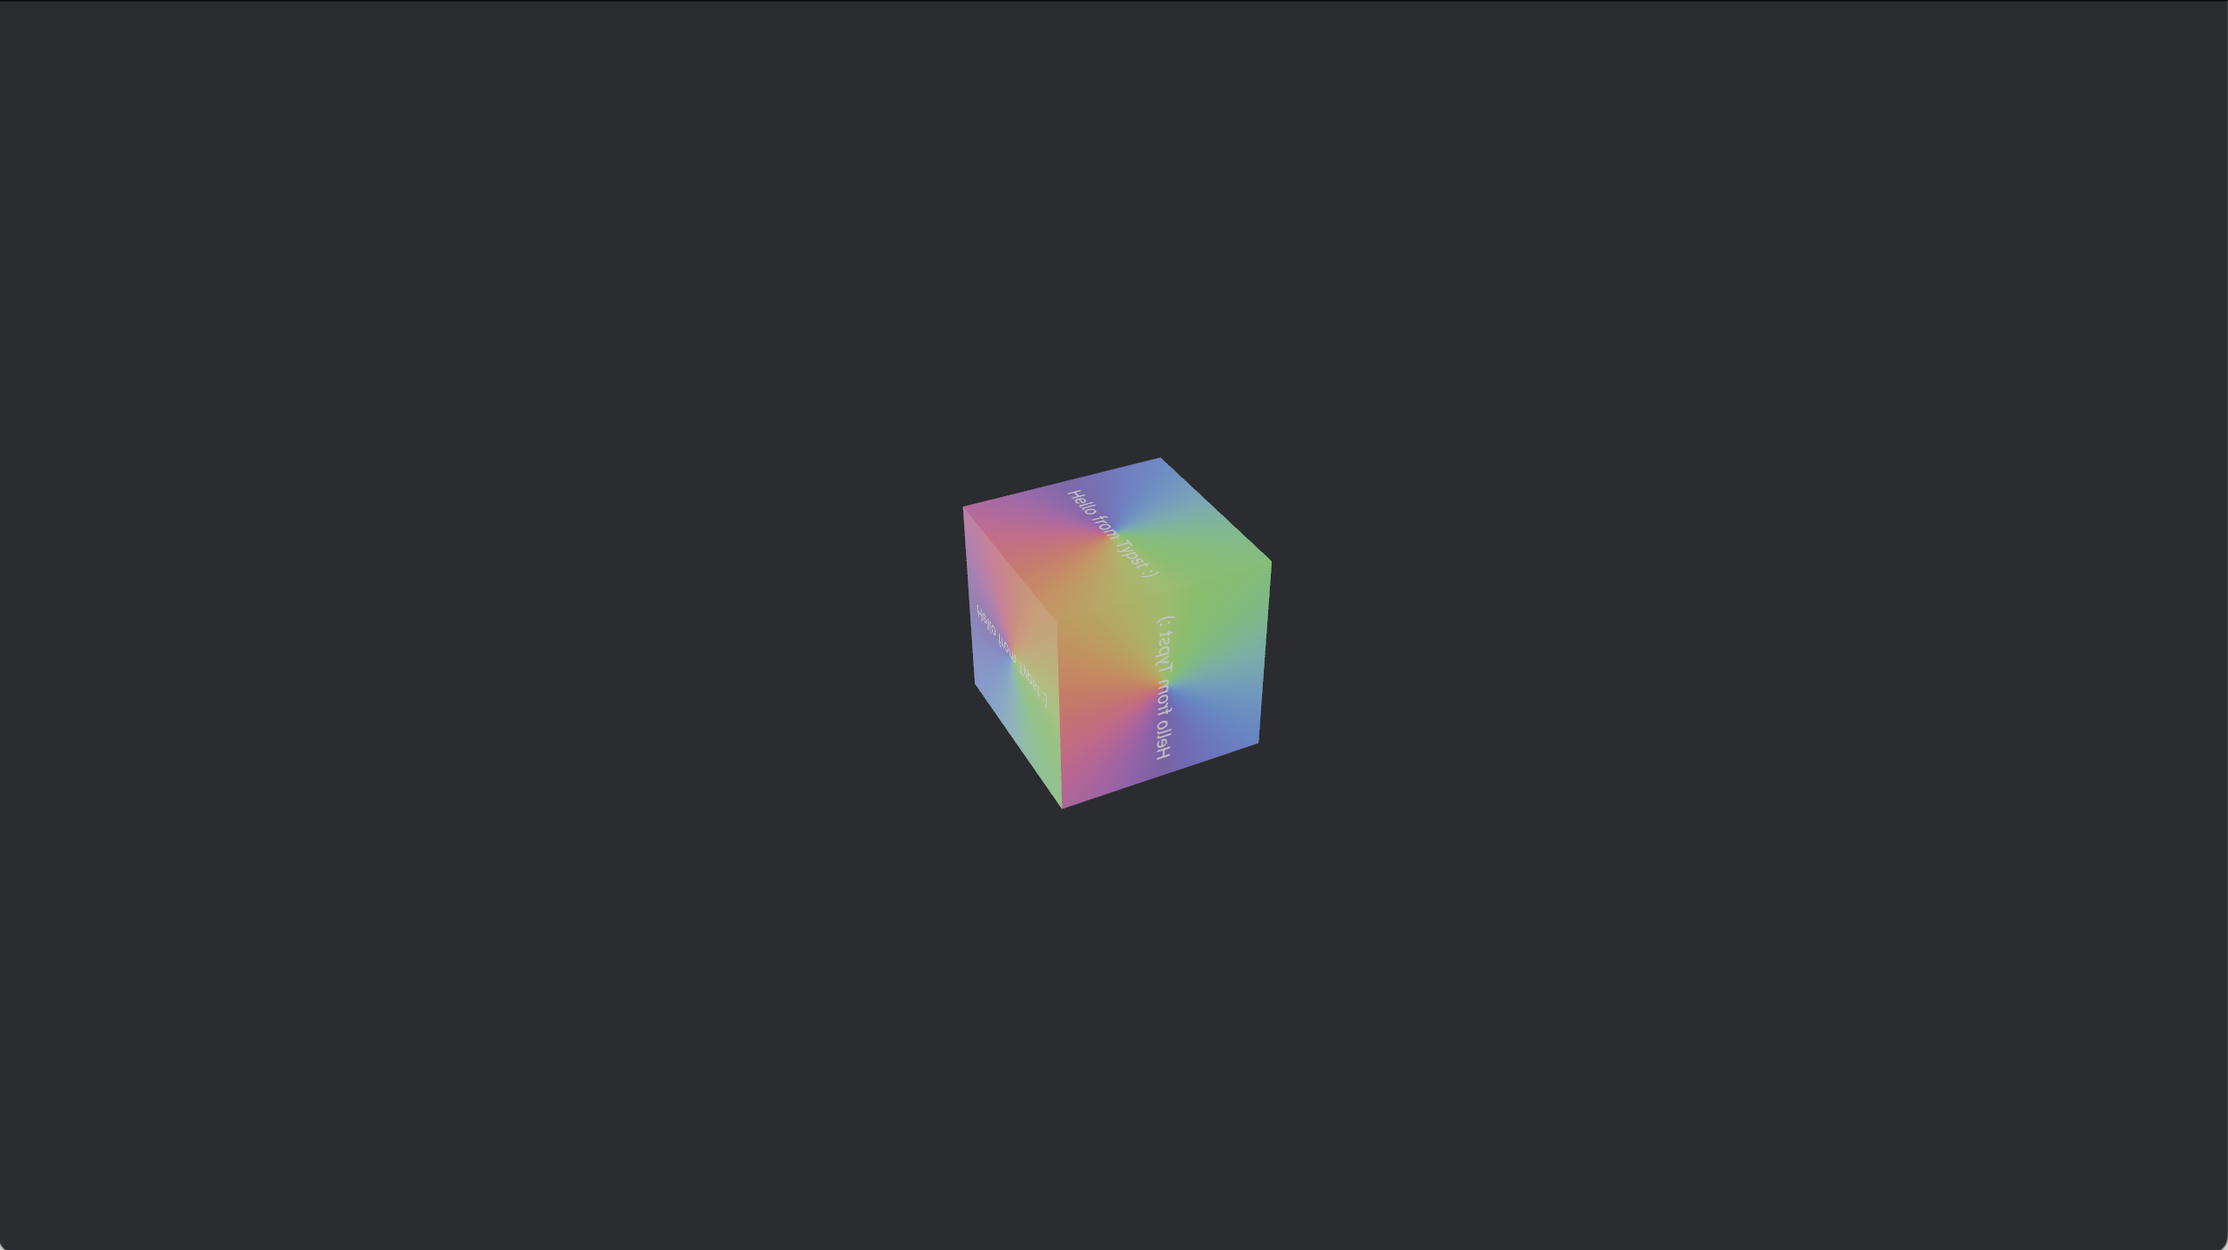
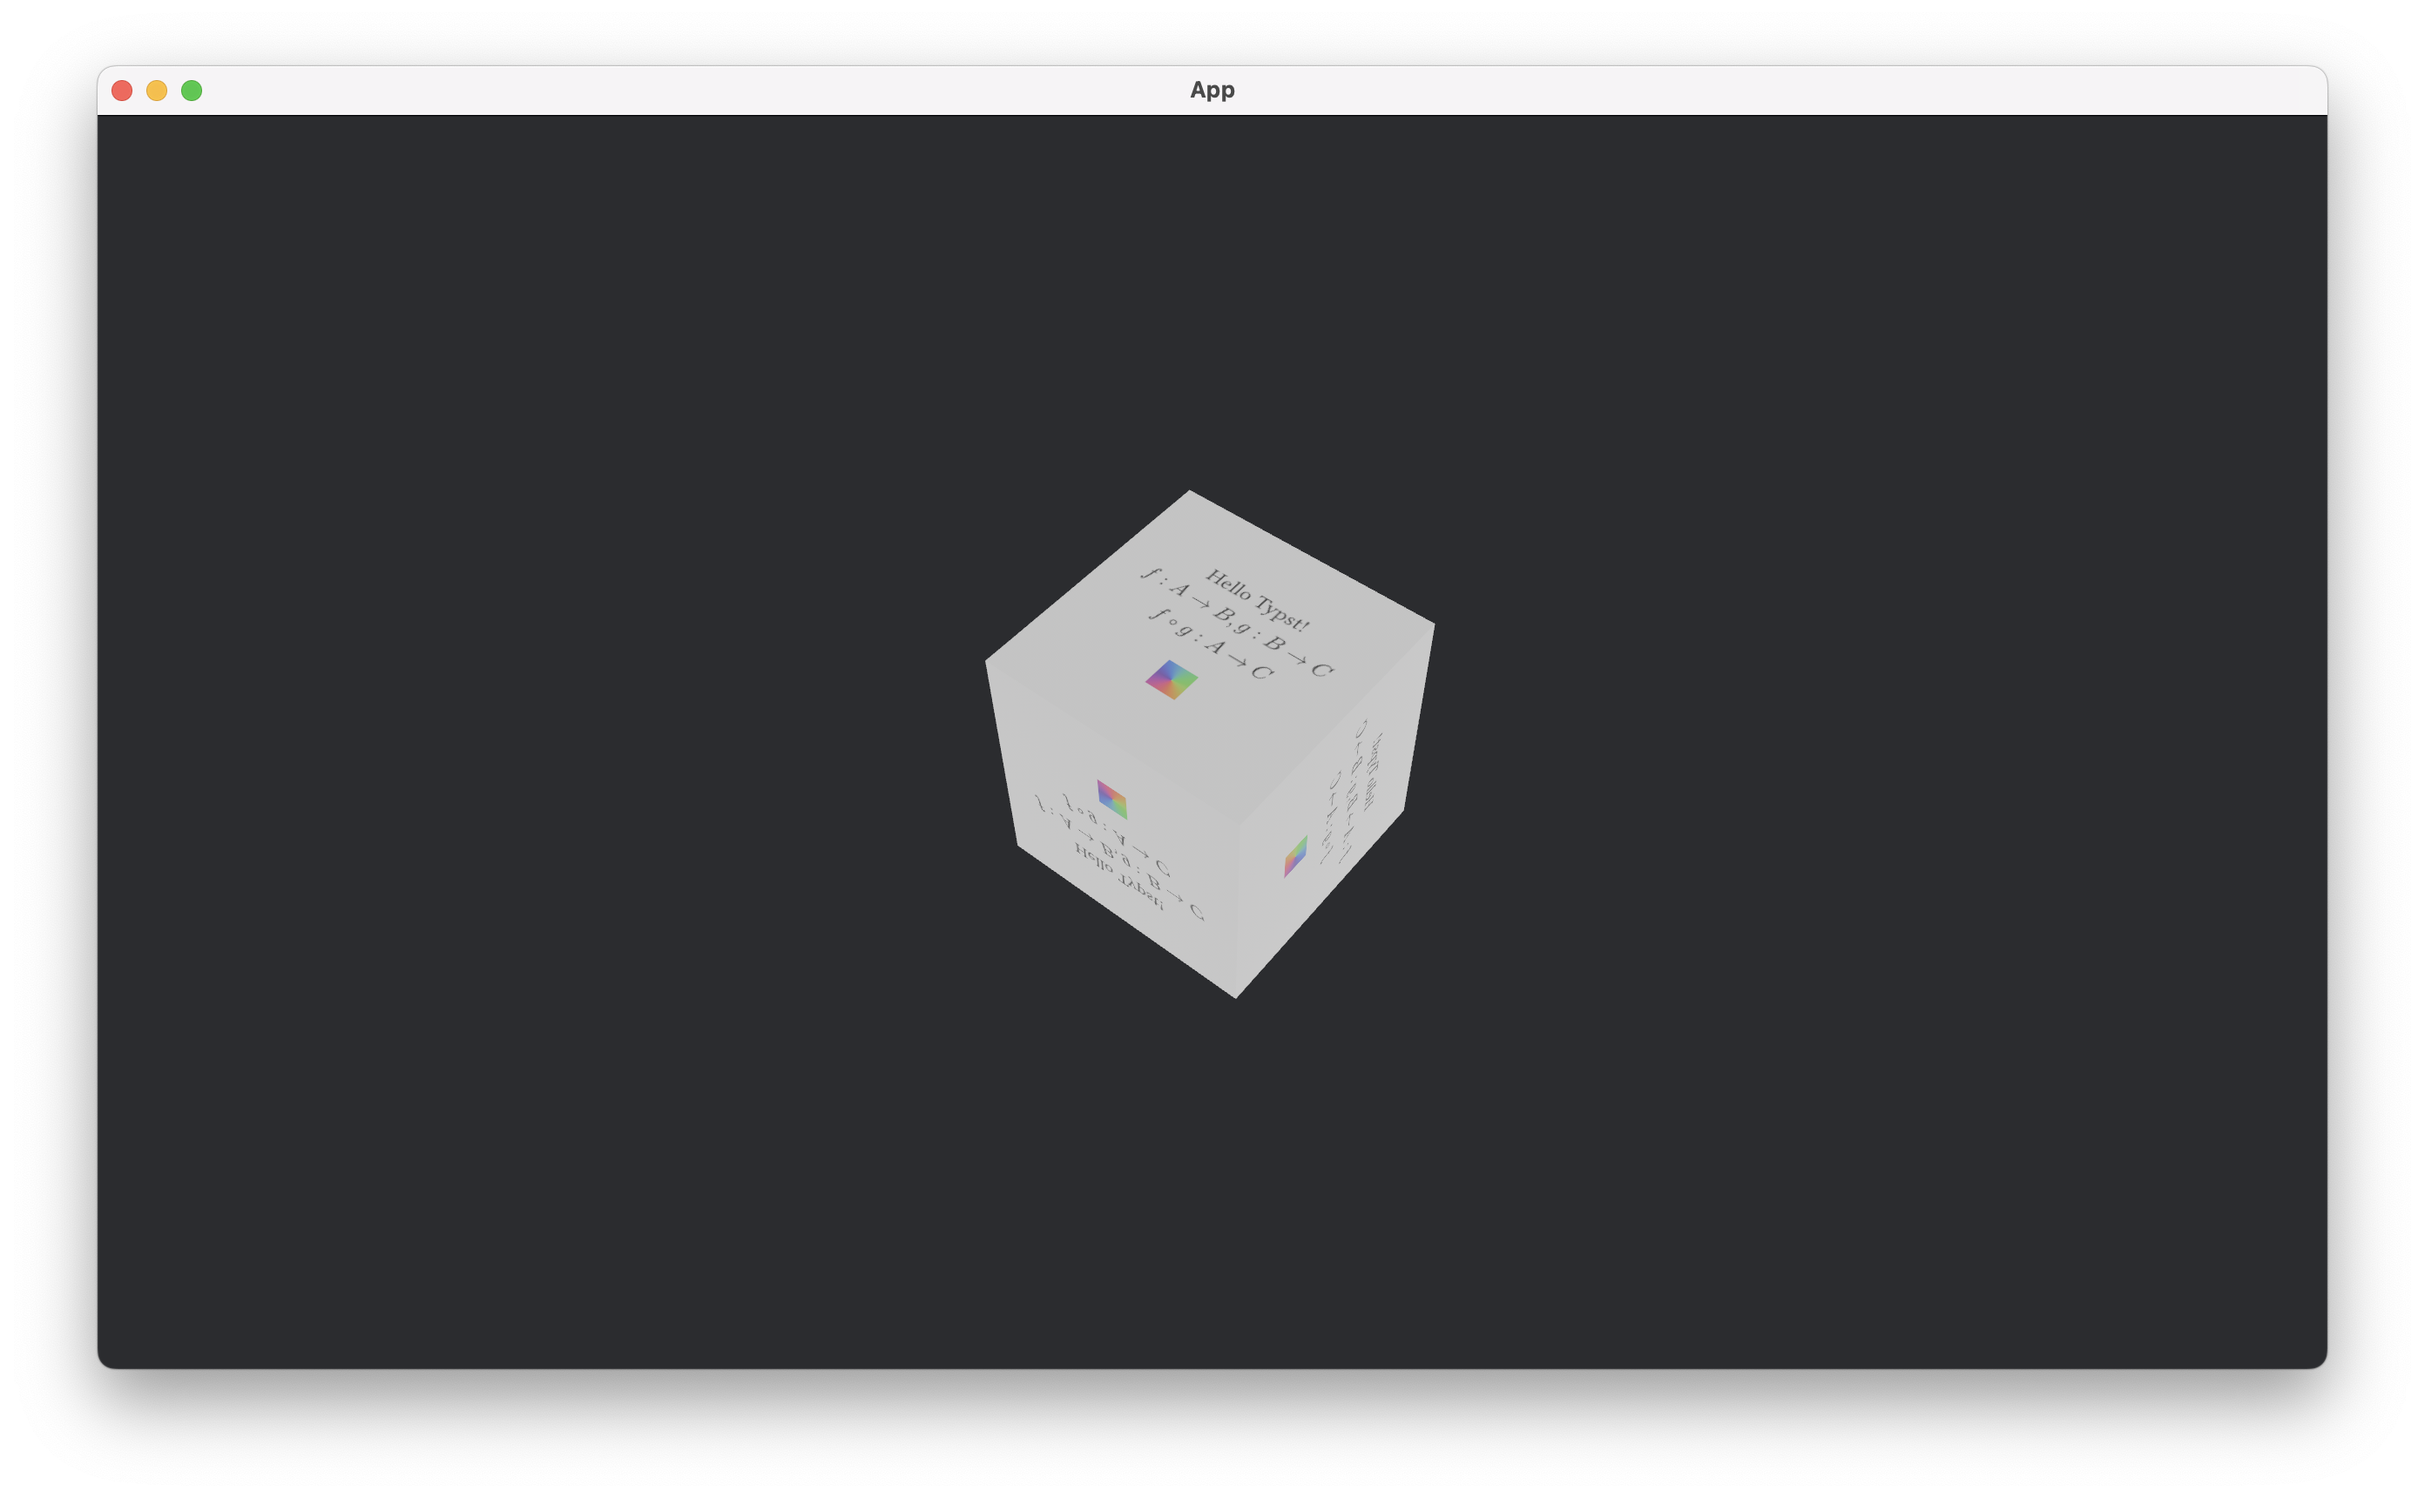
Add support for standalone typst files

Changed region(s): [[0.0, 0.0, 1.0, 1.0], [0.4015, 0.337, 0.5868, 0.6741]]

diff --git a/src/asset_loading.rs b/src/asset_loading.rs
@@ -1,7 +1,7 @@
 use std::io::Cursor;
 
 use bevy_app::{App, Plugin};
-use bevy_asset::{Asset, AssetApp, AssetLoader};
+use bevy_asset::{Asset, AssetApp, AssetLoader, AsyncReadExt};
 use bevy_reflect::TypePath;
 
 use crate::file_resolver::{FilePreloaderError, StructuredInMemoryTemplate};
@@ -24,6 +24,7 @@ pub enum TypstAssetError {
     Io(std::io::Error),
     Zip(zip::result::ZipError),
     Preloader(FilePreloaderError),
+    UnsupportedFormat,
 }
 
 impl std::fmt::Display for TypstAssetError {
@@ -34,6 +35,10 @@ impl std::fmt::Display for TypstAssetError {
             TypstAssetError::Preloader(file_preloader_error) => {
                 write!(f, "TypstAssetError::Preloader: {file_preloader_error}")
             }
+            TypstAssetError::UnsupportedFormat => write!(
+                f,
+                "TypstAssetError::UnsupportedFormat: Neither a .zip archive or a standalone .typ file"
+            ),
         }
     }
 }
@@ -54,16 +59,47 @@ impl AssetLoader for TypstZipLoader {
         &self,
         reader: &mut dyn bevy_asset::io::Reader,
         _settings: &Self::Settings,
-        _load_context: &mut bevy_asset::LoadContext<'_>,
+        load_context: &mut bevy_asset::LoadContext<'_>,
     ) -> std::result::Result<Self::Asset, Self::Error> {
-        let mut buffer: Vec<u8> = vec![];
-        reader
-            .read_to_end(&mut buffer)
-            .await
-            .map_err(TypstAssetError::Io)?;
-        let cursor = Cursor::new(buffer);
-        let zip = zip::ZipArchive::new(cursor).map_err(TypstAssetError::Zip)?;
-        let resolver = StructuredInMemoryTemplate::from_zip(zip)?;
-        Ok(TypstZip(resolver))
+        if load_context
+            .path()
+            .extension()
+            .is_some_and(|ext| ext == "zip")
+        {
+            let mut buffer: Vec<u8> = vec![];
+            reader
+                .read_to_end(&mut buffer)
+                .await
+                .map_err(TypstAssetError::Io)?;
+            let cursor = Cursor::new(buffer);
+            let zip = zip::ZipArchive::new(cursor).map_err(TypstAssetError::Zip)?;
+            let resolver = StructuredInMemoryTemplate::from_zip(zip)?;
+            Ok(TypstZip(resolver))
+        } else if load_context
+            .path()
+            .extension()
+            .is_some_and(|ext| ext == "typ")
+        {
+            // Standalone file.
+            if cfg!(not(any(
+                feature = "typst-asset-fonts",
+                feature = "typst-search-system-fonts"
+            ))) {
+                bevy_log::warn!(
+                    "[TYPST WARNING] Standalone typst file being loaded without either of the 'typst-asset-fonts' or 'typst-search-system-fonts' features enabled. Compilation may fail if text is output is displayed."
+                );
+            }
+            let mut buffer = String::new();
+            reader
+                .read_to_string(&mut buffer)
+                .await
+                .map_err(TypstAssetError::Io)?;
+            Ok(TypstZip(StructuredInMemoryTemplate {
+                loaded_main: buffer,
+                ..Default::default()
+            }))
+        } else {
+            Err(TypstAssetError::UnsupportedFormat)
+        }
     }
 }

diff --git a/src/lib.rs b/src/lib.rs
@@ -255,24 +255,20 @@ impl TypstTextureServer {
 
     /// Add a typst job to the queue, returning a [`Handle<Image>`] immediately while the
     /// compilation and rasterization happens later.
-    pub fn add_job(
-        &mut self,
-        zip_path: impl Into<PathBuf>,
-        options: TypstJobOptions,
-    ) -> Handle<Image> {
-        self.add_job_with_input(zip_path, serde_json::Value::Object(Map::new()), options)
+    pub fn add_job(&mut self, path: impl Into<PathBuf>, options: TypstJobOptions) -> Handle<Image> {
+        self.add_job_with_input(path, serde_json::Value::Object(Map::new()), options)
     }
 
     /// Add a typst job to the queue, with `input` being some type to be converted to the
     /// `Dict` accessible via `#import sys : inputs` in the typst project.
     pub fn add_job_with_input(
         &mut self,
-        zip_path: impl Into<PathBuf>,
+        path: impl Into<PathBuf>,
         input: impl Serialize,
         options: TypstJobOptions,
     ) -> Handle<Image> {
         let asset_server = self.asset_server.clone();
-        let path_buf = zip_path.into();
+        let path_buf = path.into();
         let template = self
             .templates
             .entry(path_buf.clone())

diff --git a/examples/default_fonts_3d.rs b/examples/default_fonts_3d.rs
@@ -1,11 +1,17 @@
 use bevy::prelude::*;
 use bevy_typst_textures::{TypstJobOptions, TypstTextureServer, TypstTexturesPlugin};
 
+#[cfg(feature = "typst-asset-fonts")]
 fn main() {
     App::new()
         .add_plugins((DefaultPlugins, TypstTexturesPlugin::default()))
         .add_systems(Startup, start)
         .run();
+}
+
+#[cfg(not(feature = "typst-asset-fonts"))]
+fn main() {
+    eprintln!("You need to enable the 'typst-asset-fonts' feature!");
 }
 
 fn start(
@@ -23,7 +29,7 @@ fn start(
         MeshMaterial3d(materials.add(StandardMaterial {
             // "add_job"/"add_job_with_input" gives a `Handle<Image>`
             base_color_texture: Some(
-                typst_server.add_job("example.zip", TypstJobOptions::default()),
+                typst_server.add_job("standalone.typ", TypstJobOptions::default()),
             ),
             ..default()
         })),

diff --git a/src/file_resolver.rs b/src/file_resolver.rs
@@ -22,7 +22,7 @@ pub enum FilePreloaderError {
     NoMainDotTyp,
 }
 
-#[derive(Debug, Clone)]
+#[derive(Debug, Clone, Default)]
 pub struct StructuredInMemoryTemplate {
     pub loaded_toml: BevyTypstDotToml,
     pub loaded_fonts: Vec<typst::text::Font>,

diff --git a/README.md b/README.md
@@ -1,6 +1,6 @@
 # bevy_typst_textures
 
-[![](./screenshot.png)](./examples/3d.rs)
+[![](./screenshot.png)](./examples/default_fonts_3d.rs)
 
 A simple `Resource` for generating rasterized textures (`Handle<Image>`) out of structured, zipped typst projects, built on `typst-as-lib`.
 
@@ -57,7 +57,7 @@ The archive unzipping is a bit fragile right now. Lots of `unwrap`s and assumpti
 
 ## Cargo Features
 
-All these features are pass-through features to `typst-as-lib` features.
+All these features are pass-through features to `typst-as-lib` features. `typst-asset-fonts` is the only default feature.
 
 - `typst-packages`: Enable access to Universe packages. Package fetching is blocking, doesn't work on web, and relies on you also enabling one of the following:
     - `typst-resolve-ureq`: Use `ureq` to resolve packages.
@@ -78,7 +78,6 @@ This crate sits in the niche of needing rasterized textures rather than full & i
 Planned features:
 
 - Move typst compilation & rasterization to the async compute pool completely.
-- Support for standalone, non-archived typst files (useful for when the asset/system font features are enabled).
 - Support for loading of .tar.gz archives.
 - If/when `typst-as-lib` supports packages in the browser, support packages in the browser.
 - Optional resizing of rasterized Typst output before adding it to Bevy's asset management.
